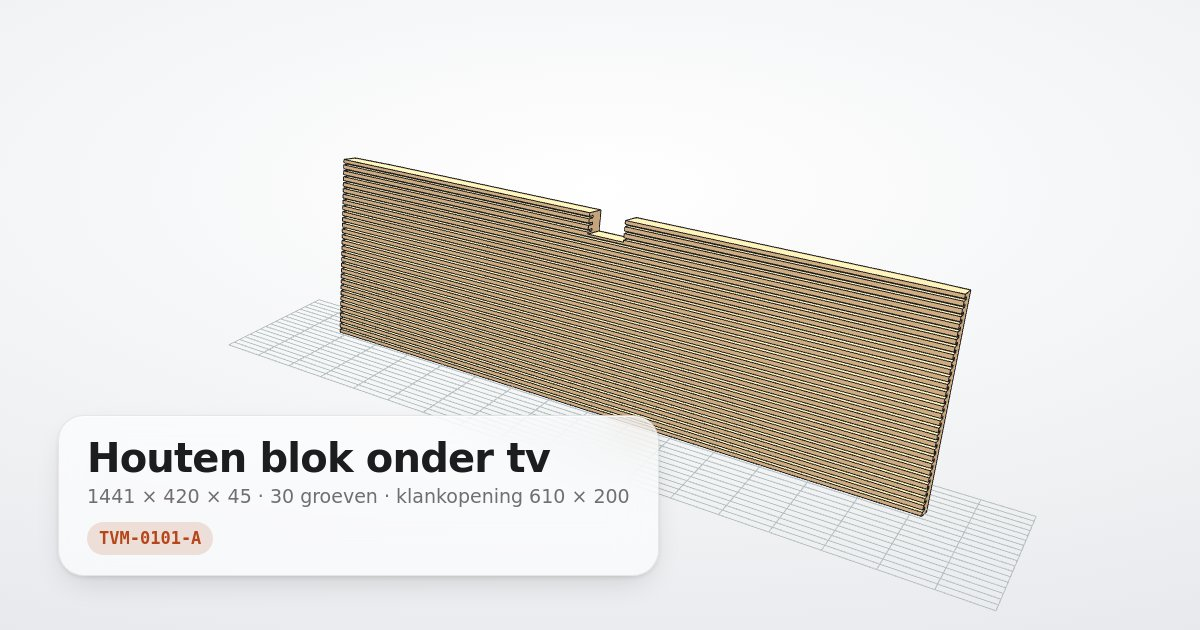
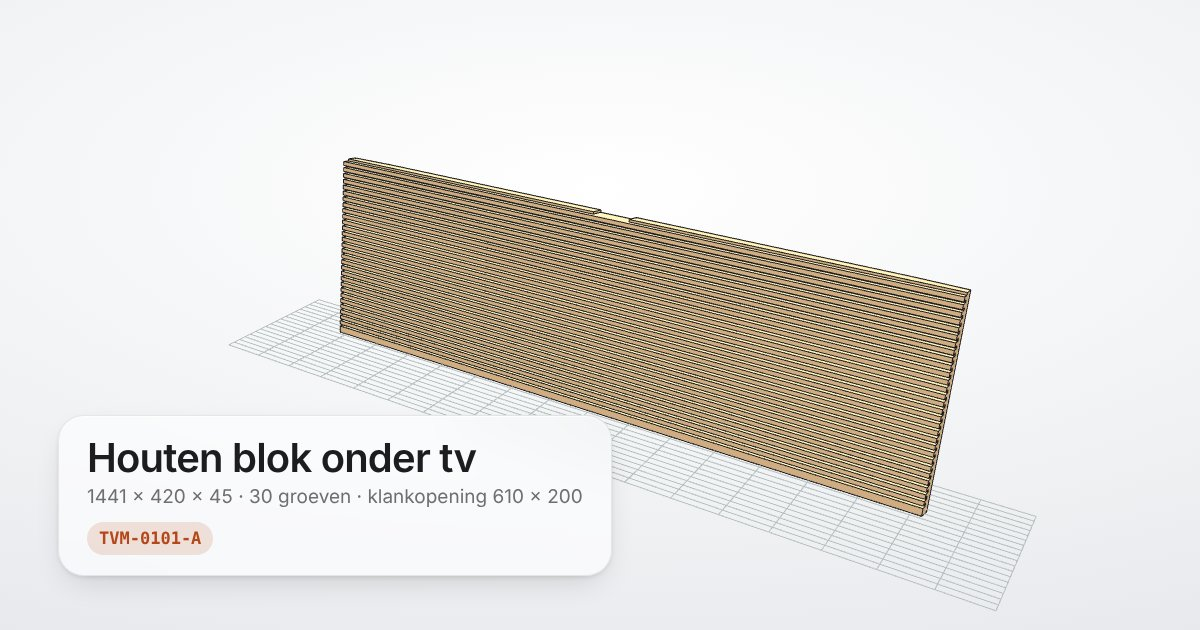
TVM-0101 A (concept): inkeping 5 diep, bovenste groef langs de bovenrand
De groeven beginnen bovenaan (de bovenkant is een sponning 5 × 15); onderaan
blijft 15,48 vol. De inkeping is 85 breed en 5 diep, van voor tot achter, en
valt in de hoogte van de bovenste groef. Nieuw aanzicht "Inkeping".

Claude-Session: https://claude.ai/code/session_01XXJD1Dkf3JZyJweGTUJbua

Changed region(s): [[0.0617, 0.2413, 0.8017, 0.8143], [0.4933, 0.9048, 0.5242, 0.9349]]

diff --git a/drawings/TVM-0101/A.html b/drawings/TVM-0101/A.html
@@ -29,21 +29,22 @@
 // Voorkant: 30 groeven 5 breed en 15 diep, steek 14. Achterkant: uitsparing 610 × 200, 30 diep, hoeken R10: samen met
 // de groeven (30 + 15 = 45) gaat ze helemaal door, zodat het geluid van de luidspreker erachter tussen de latjes door kan.
 // Uiteinden achteraan afgeschuind (20°, over 107 tot 6 dik); de groeven komen daar 25 mm van het einde door de plaat.
-// Bovenaan in het midden een inkeping 85 breed en 45 diep, door de volle dikte. Onderkant schuin (10°): staat vlak.
+// De bovenste groef ligt langs de bovenrand (de bovenkant is dus een sponning van 5 × 15). Bovenaan in het midden een
+// inkeping 85 breed en 5 diep, van voor tot achter: ze valt in de hoogte van die bovenste groef. Onderkant schuin (10°): staat vlak.
 //
 // De vorm is een exacte booleaanse bewerking (balk min groeven, uitsparing en inkeping), berekend met manifold-3d door
 // tools/meshes/TVM-0101.mjs en hieronder ingevoegd als gesloten driehoeksnet. Maten aanpassen: P in dat script, opnieuw
 // uitvoeren en het blok MESH vervangen; de maatvoering hieronder leest dezelfde waarden uit P.
-const P = /* params */ {"W":1441,"L":426.48,"T":45,"tilt":10,"bevelLen":107,"endT":6,"gW":5,"gLand":9,"gDepth":15,"gN":30,"rW":610,"rH":200,"rY0":120,"rDepth":30,"rR":10,"nW":85,"nDepth":45,"secX":100} /* /params */;
[1 lines of base64/hex data omitted]
+const P = /* params */ {"W":1441,"L":426.48,"T":45,"tilt":10,"bevelLen":107,"endT":6,"gW":5,"gLand":9,"gDepth":15,"gN":30,"rW":610,"rH":200,"rY0":120,"rDepth":30,"rR":10,"nW":85,"nDepth":5,"secX":100} /* /params */;
[1 lines of base64/hex data omitted]
 
 const A = P.W / 2, L = P.L, T = P.T;
 const TILT = P.tilt * Math.PI / 180, cT = Math.cos(TILT), sT = Math.sin(TILT);
 const HV = L * cT;                                         // hoogte boven de vloer (bovenkant voorzijde)
 const toWorld = (x, y, z) => [x, y * cT + z * sT, -y * sT + z * cT];   // plaatassen -> wereld (10° achterover)
 const fmt = v => String(Math.round(v * 100) / 100).replace('.', ',');
-const G0 = (L - (P.gN * P.gW + (P.gN - 1) * P.gLand)) / 2;   // rand boven en onder de groeven
-const gTop = G0 + (P.gN - 1) * (P.gW + P.gLand);         // onderkant van de bovenste groef
+const gTop = L - P.gW;                                     // onderkant van de bovenste groef (die ligt langs de bovenrand)
+const G0 = gTop - (P.gN - 1) * (P.gW + P.gLand);           // onderkant van de onderste groef: zoveel blijft er onderaan vol
 
 DrawingViewer.create({
   lang: 'nl',
@@ -60,6 +61,7 @@ DrawingViewer.create({
     { id: 'top', theta: 0, phi: 0.0001 },
     { id: 'right', theta: Math.PI / 2, phi: Math.PI / 2 },
     { id: 'back', label: 'Achter', tag: 'Achteraanzicht', theta: Math.PI, phi: Math.PI / 2 },
+    { id: 'notch', label: 'Inkeping', tag: 'Detail inkeping bovenaan', theta: 0.6, phi: 1.15, radius: 300, target: toWorld(0, L - 10, -T / 2) },
     { id: 'groove', label: 'Groeven', tag: 'Detail groeven en uiteinde', theta: 0.9, phi: 1.2, radius: 330, target: toWorld(A - 60, L - 40, -T / 2) }
   ],
   camera: { radius: 2300, target: [0, HV / 2, -T], min: 60, max: 5000 },
@@ -67,7 +69,7 @@ DrawingViewer.create({
     { k: 'Titel', v: 'Houten blok onder tv', title: true },
     { k: 'Tekeningnr.', v: 'TVM-0101-A' },
     { k: 'Afmetingen', v: `${P.W} × ${fmt(L)} × ${T} (langs de plaat) · ${fmt(HV)} hoog · staat onder ${90 + P.tilt}°` },
-    { k: 'Groeven voorkant', v: `${P.gN} × ${P.gW} breed, ${P.gDepth} diep, steek ${P.gW + P.gLand} (latjes ${P.gLand}) · rand ${fmt(G0)} boven en onder` },
+    { k: 'Groeven voorkant', v: `${P.gN} × ${P.gW} breed, ${P.gDepth} diep, steek ${P.gW + P.gLand} (latjes ${P.gLand}) · bovenste langs de bovenrand, onderaan ${fmt(G0)} vol` },
     { k: 'Uitsparing achterkant', v: `${P.rW} × ${P.rH}, ${P.rDepth} diep, hoeken R${P.rR}, ${P.rY0} boven de onderkant: open tussen de latjes (klankopening)` },
     { k: 'Uiteinden', v: `Achterkant afgeschuind 20° over ${P.bevelLen}, eindkant ${P.endT} dik` },
     { k: 'Inkeping bovenkant', v: `${P.nW} breed × ${P.nDepth} diep, door de volle dikte` },
@@ -102,8 +104,6 @@ DrawingViewer.create({
       ext: [[V(-A, 0, 0), V(-A, -78, 0)], [V(A, 0, 0), V(A, -78, 0)]] });
     all.linear({ a: V(-P.nW / 2, L + 40, 0), b: V(P.nW / 2, L + 40, 0), text: String(P.nW),
       ext: [[V(-P.nW / 2, L - P.nDepth, 0), V(-P.nW / 2, L + 46, 0)], [V(P.nW / 2, L - P.nDepth, 0), V(P.nW / 2, L + 46, 0)]] });
-    all.linear({ a: V(P.nW / 2 + 40, L - P.nDepth, 0), b: V(P.nW / 2 + 40, L, 0), text: String(P.nDepth),
-      ext: [[V(P.nW / 2, L - P.nDepth, 0), V(P.nW / 2 + 46, L - P.nDepth, 0)], [V(P.nW / 2, L, 0), V(P.nW / 2 + 46, L, 0)]] });
     // Uitsparing op de achterkant
     const rTop = P.rY0 + P.rH;
     all.linear({ a: V(-P.rW / 2, P.rY0 - 40, -T), b: V(P.rW / 2, P.rY0 - 40, -T), text: String(P.rW),
@@ -128,10 +128,13 @@ DrawingViewer.create({
       ext: [[V(X, g1, 0), V(X, g1, 18)], [V(X, g2, 0), V(X, g2, 18)]] });
     det.linear({ a: V(X, g0b, 14), b: V(X, g1, 14), n: V(1, 0, 0), text: String(P.gLand),
       ext: [[V(X, g0b, 0), V(X, g0b, 18)]] });
-    det.linear({ a: V(X, g2, 30), b: V(X, L, 30), n: V(1, 0, 0), text: fmt(G0),
-      ext: [[V(X, g2, 18), V(X, g2, 34)], [V(X, L, 0), V(X, L, 34)]] });
     det.linear({ a: V(X, L + 14, 0), b: V(X, L + 14, -P.gDepth), n: V(1, 0, 0), text: String(P.gDepth),
       ext: [[V(X, L, 0), V(X, L + 18, 0)], [V(X, g2, -P.gDepth), V(X, L + 18, -P.gDepth)]] });
+    // Inkeping bovenaan (85 × 5, van voor tot achter)
+    det.linear({ a: V(-P.nW / 2, L + 12, 0), b: V(P.nW / 2, L + 12, 0), text: String(P.nW),
+      ext: [hide(V(-P.nW / 2, L + 12, 0), Y), [V(-P.nW / 2, L - P.nDepth, 0), V(-P.nW / 2, L + 16, 0)], [V(P.nW / 2, L - P.nDepth, 0), V(P.nW / 2, L + 16, 0)]] });
+    det.linear({ a: V(P.nW / 2 + 14, L - P.nDepth, 0), b: V(P.nW / 2 + 14, L, 0), text: String(P.nDepth),
+      ext: [[V(P.nW / 2, L - P.nDepth, 0), V(P.nW / 2 + 18, L - P.nDepth, 0)], [V(P.nW / 2, L, 0), V(P.nW / 2 + 18, L, 0)]] });
     det.linear({ a: V(X + 14, L, 0), b: V(X + 14, L, -P.endT), n: V(0, 1, 0), text: String(P.endT),
       ext: [[V(X, L, 0), V(X + 18, L, 0)], [V(X, L, -P.endT), V(X + 18, L, -P.endT)]] });
 
